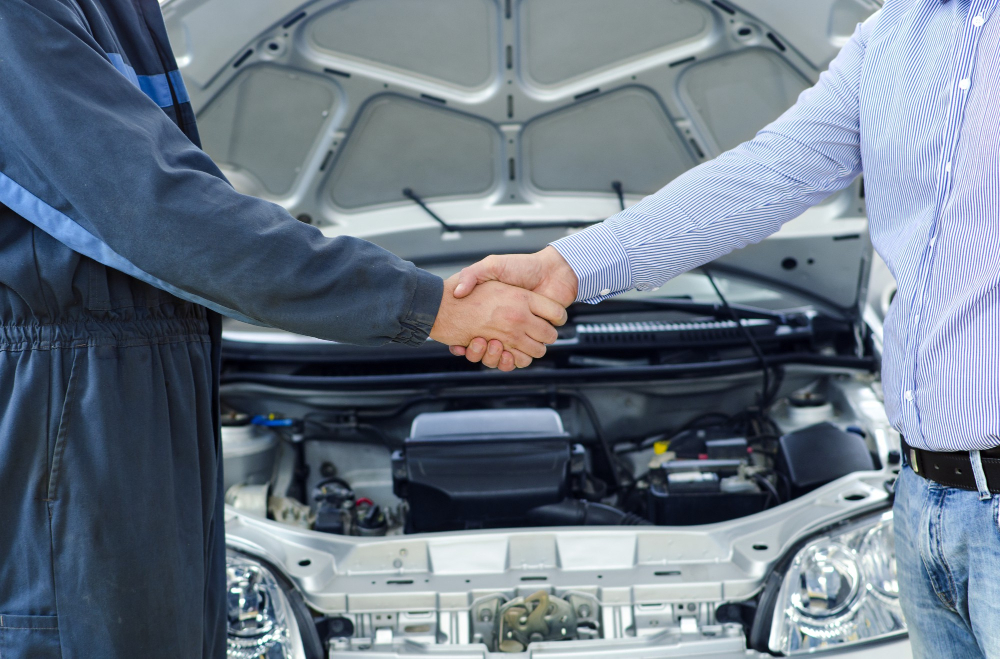
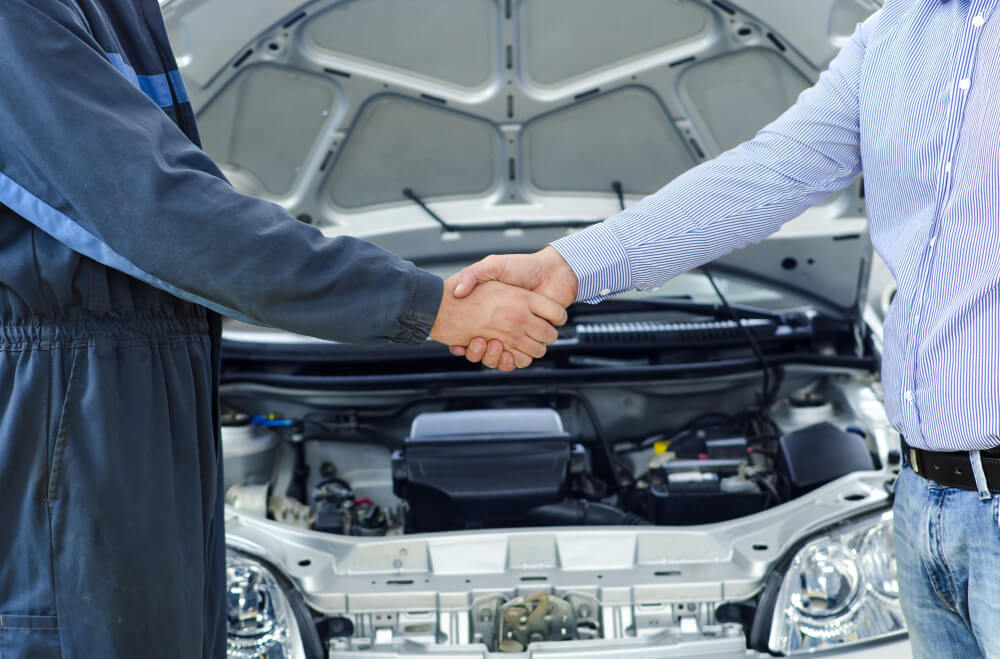
se reduce tamaño de imagenes

diff --git a/index.html b/index.html
@@ -121,7 +121,7 @@
             <h3 class="display-6 text-center">Nuestros Servicios</h3>
             <div class="col-lg-4 col-md-4 col-sm-12 py-3">
                <div class="card">
-                  <h3 class="fs-10 mt-4 px-4 pb-1">Mecanica Rapida</h3>
+                  <h3 class="fs-10 mt-4 px-4 pb-1" id="titulo_In">Mecanica Rapida</h3>
                   <div class="card-body">
                      <img src="imagenes2/frenos.jpg" class="card-img-top" alt="" id="img2" />
                   </div>
@@ -134,7 +134,7 @@
             </div>
             <div class="col-lg-4 col-md-4 col-sm-12 py-3">
                <div class="card">
-                  <h3 class="fs-10 mt-4 px-4 pb-1">Mecanica Especializada</h3>
+                  <h3 class="fs-10 mt-4 px-4 pb-1" id="titulo_In">Mecanica Especializada</h3>
                   <div class="card-body">
                      <img src="imagenes2/embrague1.jpg" class="card-img-top" alt="" />
                   </div>
@@ -147,7 +147,7 @@
             </div>
             <div class="col-lg-4 col-md-4 col-sm-12 p-3">
                <div class="card">
-                  <h3 class="fs-10 mt-4 px-4 pb-1">Escaner de Vehiculo</h3>
+                  <h3 class="fs-10 mt-4 px-4 pb-1" id="titulo_In">Escaner de Vehiculo</h3>
                   <div class="card-body">
                      <img src="imagenes2/escaner1.jpg" class="card-img-top" alt="" />
                   </div>
@@ -166,7 +166,7 @@
             <h3 class="display-6 text-center pt-3">Sobre Nosotros</h3>
             <div class="col-lg-6 col-md-6 col-sm-12 p-5">
                <div class="card">
-                  <h1 class="mb-2 fs-2 pt-3 text-center">Quienes Somos</h1>
+                  <h1 class="mb-2 fs-2 pt-3 text-center" id="titulo_In">Quienes Somos</h1>
                   <div class="card-body">
                      <img
                         class="card-img-top img-fluid rounded"
@@ -183,7 +183,7 @@
             </div>
             <div class="col-lg-6 col-md-6 col-sm-12 p-5 text-center">
                <div class="card">
-                  <h1 class="mb-2 fs-2 pt-3 text-center">Porque Elegirnos</h1>
+                  <h1 class="mb-2 fs-2 pt-3 text-center" id="titulo_In">Porque Elegirnos</h1>
                   <div class="card-body">
                      <img
                         class="card-img-top img-fluid rounded"
@@ -215,7 +215,7 @@
                            class="rounded-circle mb-3"
                         />
                         <h3 class="card-title mb-3">Daniel Andres Cubillos</h3>
-                        <p class="card-text">
+                        <p class="card-text" id="titulo_In">
                            La verdad quede muy satisfecho con el servicio prestado en PYPMOTOR,
                            corrigieron el fallo que presentaba mi vehiculo en el tiempo acordado.
                         </p>
@@ -236,7 +236,7 @@
                            class="rounded-circle mb-3"
                         />
                         <h3 class="card-title mb-3">Margarita Ospina</h3>
-                        <p class="card-text">
+                        <p class="card-text" id="titulo_In">
                            La verdad quede muy satisfecho con el servicio prestado en PYPMOTOR,
                            corrigieron el fallo que presentaba mi vehiculo en el tiempo acordado.
                         </p>
@@ -257,7 +257,7 @@
                            class="rounded-circle mb-3"
                         />
                         <h3 class="card-title mb-3">Sebastian Aricapa</h3>
-                        <p class="card-text">
+                        <p class="card-text" id="titulo_In">
                            La verdad quede muy satisfecho con el servicio prestado en PYPMOTOR,
                            corrigieron el fallo que presentaba mi vehiculo en el tiempo acordado.
                         </p>
@@ -278,7 +278,7 @@
                            class="rounded-circle mb-3"
                         />
                         <h3 class="card-title mb-3">Jhon Edison Ayala</h3>
-                        <p class="card-text">
+                        <p class="card-text" id="titulo_In">
                            La verdad quede muy satisfecho con el servicio prestado en PYPMOTOR,
                            corrigieron el fallo que presentaba mi vehiculo en el tiempo acordado.
                         </p>

diff --git a/mecanicarapida.html b/mecanicarapida.html
@@ -97,7 +97,7 @@
                   
                   <div class="card-body" id="Main1">
                      <img src="/imagenes2/revisionfrenos.jpg" class="card-img-top" alt="" />
-                     <h4>Revisión de Frenos</h4>
+                     <h4 id="titulo_In">Revisión de Frenos</h4>
                      <p class="text-mute">
                         Nos encargamos de revisra el estado de las pastillas y el liquido de frenos si es necesario realizaremos el cambio de estos elementos, de lo contrario realizaremos una limpieza para evitar que se generene ruidos molestos al momento de utilizar los frenos.                        
                      </p>
@@ -112,7 +112,7 @@
                   
                   <div class="card-body" id="Main1">
                      <img src="/imagenes2/cambioaceite.jpg" class="card-img-top" alt="" />
-                     <h4>Cambio de Aceite</h4>
+                     <h4 id="titulo_In">Cambio de Aceite</h4>
                      <p class="text-mute">
                         Realizamos el cambio del aceite y el filtro de aceite utlizando siempre los productos recomendados por el fabricante y aplicado la cantidad exacta requerida de aceite por cada vehiculo y haciendo una disposicion final amigable con el medio ambiente.
                      </p>
@@ -126,7 +126,7 @@
                <div class="card ">                  
                   <div class="card-body" id="Main1">
                      <img src="/imagenes2/mpreventivo.jpg" class="card-img-top" alt="" />
-                     <h4>Revisión de Viaje</h4>
+                     <h4 id="titulo_In">Revisión de Viaje</h4>
                      <p class="text-mute">
                         Se realiza una revisión general de los diferentes sistemas que conforman el correcto uncionamiento del ehiculo con el fin de que nuestros clientes salgan de viaje sin ninguna preocupacion sobre el funcionamiento de su vehiculo.
                      </p>
@@ -258,7 +258,7 @@
                            <span class="visually-hidden">Next</span>
                         </button>
                      </div>
-                     <h3 class="text-center">La mejor atención para tu vehículo y cumplimiento con los timpos acordados</h3>
+                     <h3 class="text-center"id="titulo_In">La mejor atención para tu vehículo y cumplimiento con los timpos acordados</h3>
                      
                   </div>
                </div>

diff --git a/mecanicaespecializada.html b/mecanicaespecializada.html
@@ -102,7 +102,7 @@
                </div>
                <div class="col-sm-7" id="P_nosotros1">
                   <div class="card-body">
-                     <p class="card-text pt-5 text-center" id="P_nosotros1">
+                     <p class="card-text pt-5 text-center">
                         Elemento fundamental en el movimiento adecuado del motor. Se debe cambiar
                         cada 50.000 kms o 3 años (lo primero que ocurra), ya que el rompimiento de
                         este elemento generaria un daño de grandes dimensiones el motor de su
@@ -121,7 +121,7 @@
                </div>
                <div class="col-sm-7" id="P_nosotros1">
                   <div class="card-body">
-                     <p class="card-text pt-5 text-center" id="P_nosotros1">
+                     <p class="card-text pt-5 text-center">
                         No reaizar el cambio de embrague a tiempo puede ocasionar un mal
                         funcionamiento de su vehiclo debido a que puede que los cambios no entren de
                         la manera adecuada, o causar que el vehiculo presente disminución el la
@@ -139,7 +139,7 @@
                </div>
                <div class="col-sm-7" id="P_nosotros1">
                   <div class="card-body">
-                     <p class="card-text pt-5 text-center" id="P_nosotros1">
+                     <p class="card-text pt-5 text-center">
                         La sincronización es un proceso que se realiza cuando notamos que hay falta
                         de potencia, excesivo consumo de combustible o algún problema en el
                         encendido, en este servicio revisamos o cambiamos las bujías, filtro de

diff --git a/nosotros.html b/nosotros.html
@@ -184,9 +184,8 @@
                   </h1>
                   <div class="card-body" id="Main1">
                      <p class="text-mute">
-                        Lorem ipsum dolor sit amet consectetur adipisicing elit. Provident animi a
-                        incidunt sed nam aperiam accusamus eveniet id minus fuga! Maiores beatae
-                        rerum quis inventore fugiat voluptate ad consequatur commodi?
+                        La mejor opcion para ti y para tu vehiculo porque te ofrecos experiencia,
+                        calidad y el mejor servicio de la cudad.
                      </p>
                      <a href="registro.html" class="btn btn-sm btn-danger"
                         >Comunicate con Nosotros</a

diff --git a/scss/style.scss b/scss/style.scss
@@ -169,6 +169,10 @@ p {
 .text-mute {
    font-family: cursive;
 }
+#titulo_Me,
+#titulo_In {
+   font-family: cursive;
+}
 /*//////////////////////////////////////*/
 #nos {
    padding-top: 3rem;

diff --git a/css/style.css b/css/style.css
@@ -211,6 +211,11 @@ p {
   font-family: cursive;
 }
 
+#titulo_Me,
+#titulo_In {
+  font-family: cursive;
+}
+
 /*//////////////////////////////////////*/
 #nos {
   padding-top: 3rem;
